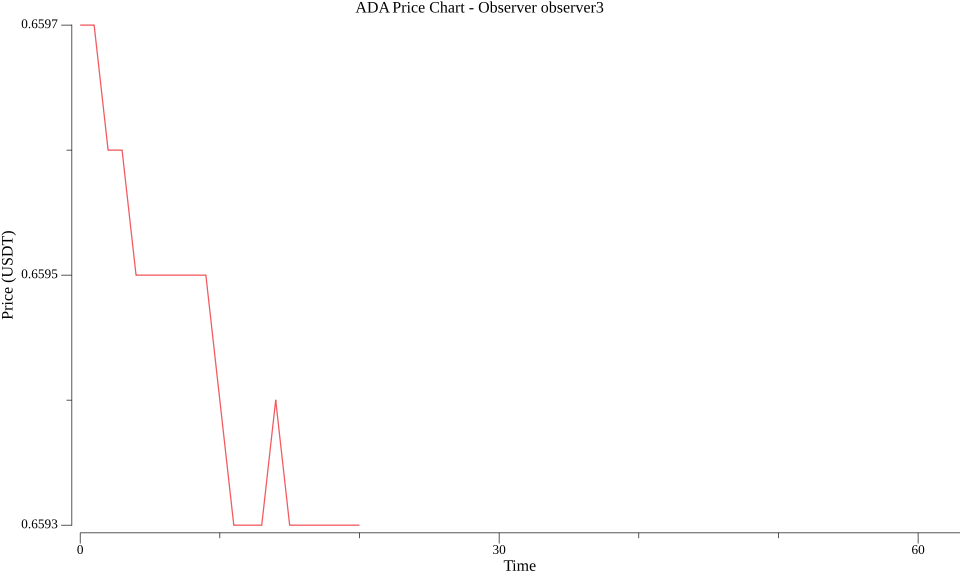
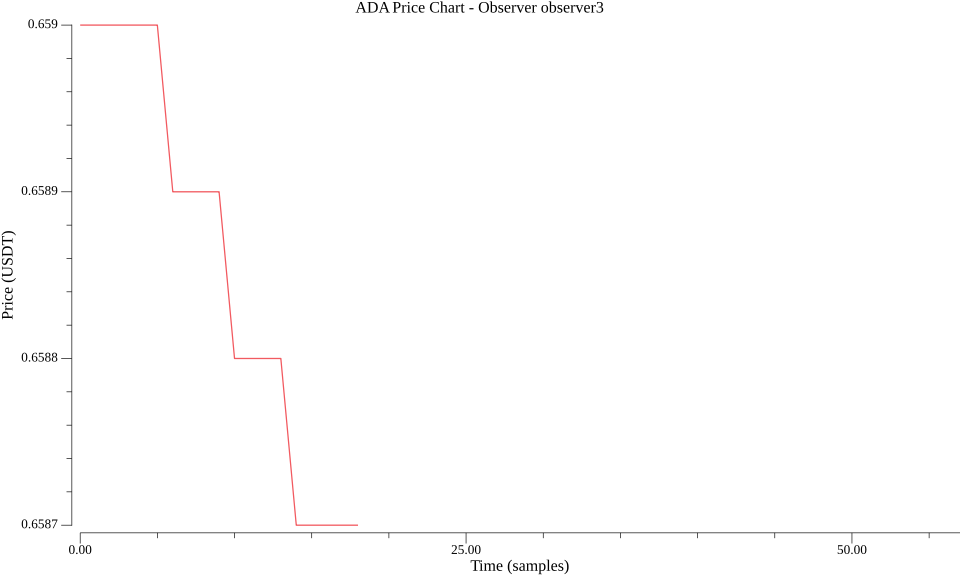
added 'samples' to scale in X axis (charts)

diff --git a/Observer/ConcreteObserver.go b/Observer/ConcreteObserver.go
@@ -119,7 +119,7 @@ func (p *ConcreteObserver) PrintGraph(option string, price float64) {
 	plt := plot.New()
 
 	plt.Title.Text = fmt.Sprintf("%s Price Chart - Observer %s", option, p.id)
-	plt.X.Label.Text = "Time"
+	plt.X.Label.Text = "Time (samples)"
 	plt.Y.Label.Text = "Price (USDT)"
 
 	// Calculate min and max prices for better scaling
